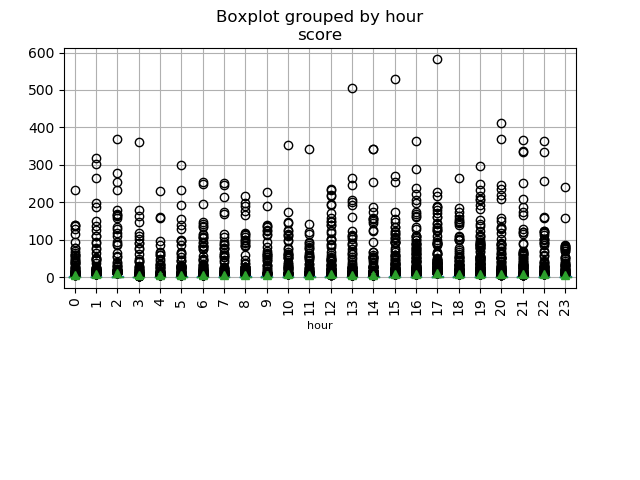
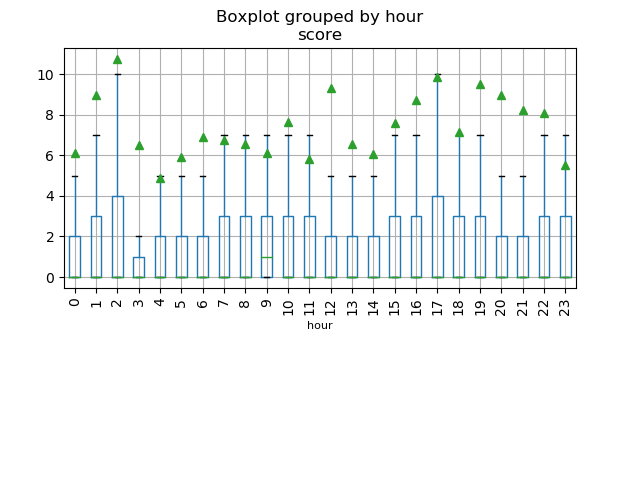
figures

diff --git a/data_exploration.py b/data_exploration.py
@@ -75,7 +75,7 @@ plt.xticks(rotation=90)
 plt.savefig('./figures/boxplot_score_groupedby_dayofweek') 
 
 plt.figure(figsize=[40, 40]) 
-df_train_trans_pd[['hour', 'score']].boxplot(by='hour', showmeans=True) 
+df_train_trans_pd[['hour', 'score']].boxplot(by='hour', showfliers=False, showmeans=True) 
 plt.gcf().subplots_adjust(bottom=0.4) 
 plt.xticks(rotation=90) 
 plt.xlabel('hour', fontsize=8)
